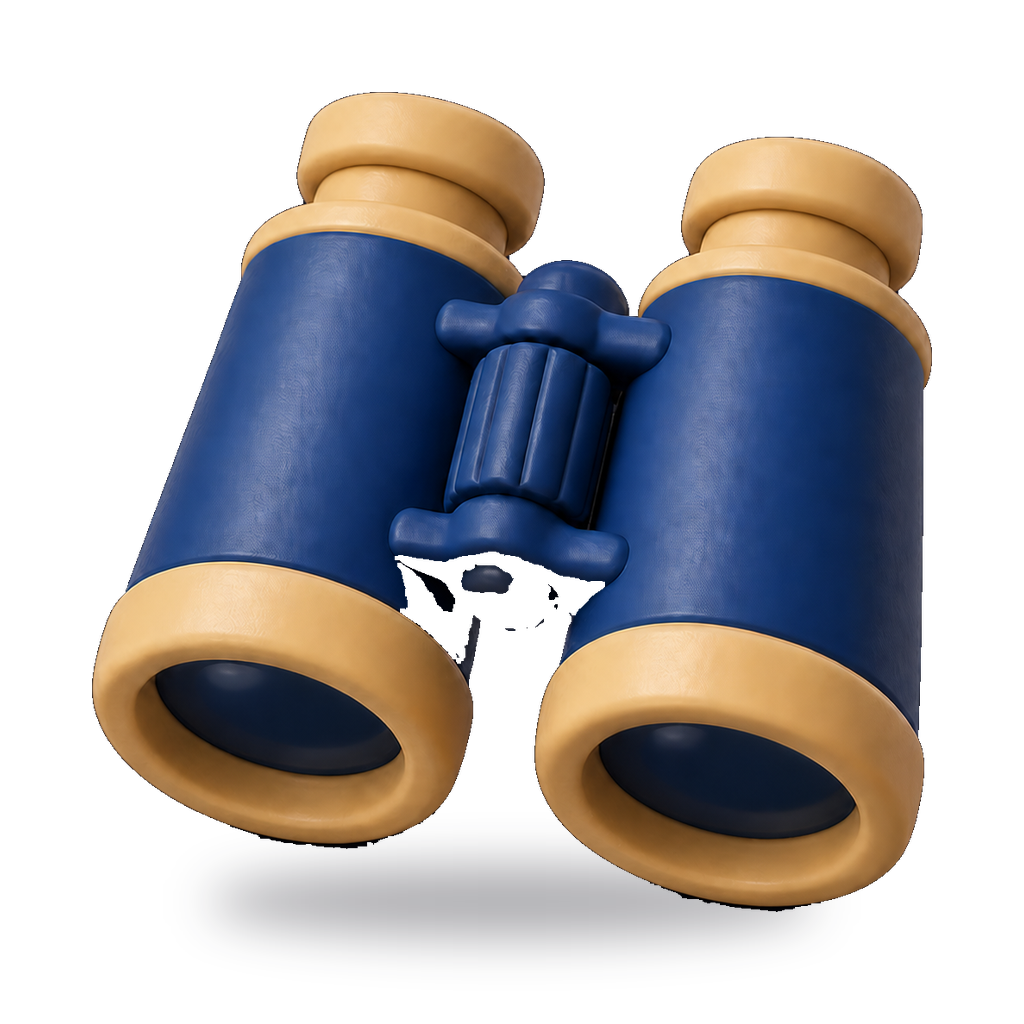
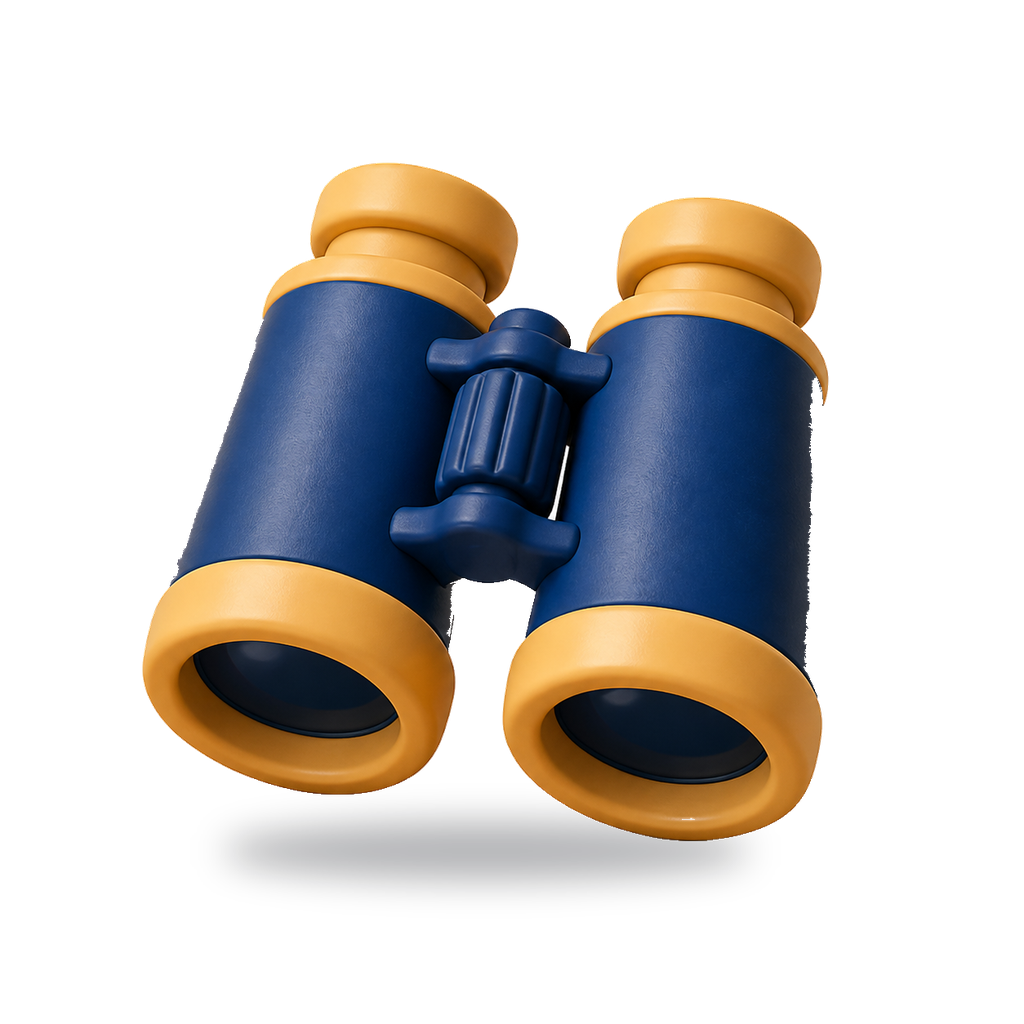
CozyGame-Siege zaehlten gar nicht, und drei Fehler mit einer Wurzel
Wolf mit Screenshot: „cozygames sitzt nicht bei runde 1 (auch nicht in rules
und pause, wenn aktiviert) und nicht alle grauen aus wenn vorbei."

Beim Nachgehen kamen DREI Fehler heraus, und der dritte ist der schwerste.
Alle haben dieselbe Wurzel: der Umbau auf die Werte-Tabelle am 25.08. hat den
Weg ueber `qqCozyGameSelectWinner` ersetzt, und an dieser Funktion hingen zwei
Dinge, die niemand mitgenommen hat.

1. DER SIEG ZAEHLTE NICHT. Die Punktvergabe stand in `qqCozyGameSelectWinner`,
   also im Weg ueber Wolfs Handauswahl. Seit die Rangfolge den Sieger kuert,
   lief der Normalfall daran vorbei. Im Harness ein CozyGame komplett
   durchgespielt: Sieger stand fest, und in `cozyGameWins` hatte JEDES Team
   eine Null. Die Regel, die Wolf am selben Tag entschieden hat („1 Punkt pro
   Sieg, zaehlt am Ende"), waere am Abend nie eingetreten - und es waere
   niemandem aufgefallen, weil sich das Brett dadurch absichtlich nicht
   aendert. Punktvergabe steht jetzt in `qqCozyGameFinish`, der EINEN Stelle,
   an der ein CozyGame endet, egal wie der Sieger zustande kam.

2. DER KNOTEN GRAUTE NICHT AUS. Zwei Ursachen uebereinander. Erstens stand
   `cozyGamesPlayedAfterPhases` nie in `buildQQStateUpdate` - genau die Falle
   aus CLAUDE.md, das Feld kam am Beamer nie an. Zweitens wurde es aus
   demselben Grund wie oben gar nicht mehr geschrieben. Beides gefixt, der
   Vermerk steht jetzt neben der Punktvergabe.
[…]

diff --git a/tests/qqRooms.test.ts b/tests/qqRooms.test.ts
@@ -11,7 +11,7 @@
  */
 import { describe, it, expect } from 'vitest';
 import { qqDecodeFinalStep, qqFinalMaxStep, qqTowerAwardCount, qqTowerMaxBeat } from '../shared/qqFinalReveal';
-import { qqSortedTeamIds, qqGoBackSlide, qqBetSlotsCount, updateTerritories, qqCozyGameTurnAbgelaufen, qqCozyGameRanking, qqCozyGameNextSequenceTeam } from '../backend/src/quarterQuiz/qqRooms';
+import { qqSortedTeamIds, qqGoBackSlide, qqBetSlotsCount, updateTerritories, qqCozyGameTurnAbgelaufen, qqCozyGameRanking, qqCozyGameNextSequenceTeam, qqCozyGameFinish, qqCozyGameConfirmValues } from '../backend/src/quarterQuiz/qqRooms';
 import { buildEmptyGrid } from '../backend/src/quarterQuiz/qqBfs';
 
 // ── Test-Helpers ─────────────────────────────────────────────────────────────
@@ -445,5 +445,91 @@ describe('CozyGames Stoppuhr', () => {
     const room = makeCozyRaum({ values: { a: 12.4, b: 60 } });
     const rang = qqCozyGameRanking(room, 'timeToFinish');
     expect(rang[0].teamId).toBe('a');
+  });
+});
+
+// ── CozyGames: der Sieg muss ankommen ────────────────────────────────────────
+// 2026-08-25 (Wolf mit Screenshot: „nicht alle grauen aus wenn vorbei"). Beim
+// Nachgehen kamen drei Fehler heraus, die alle dieselbe Wurzel hatten: der
+// Umbau auf die Werte-Tabelle am selben Tag hat den Weg ueber
+// `qqCozyGameSelectWinner` ersetzt, und an dieser Funktion hingen zwei Dinge,
+// die niemand mitgenommen hat - der Vermerk „nach dieser Runde lief ein
+// CozyGame" und der PUNKT fuer den Sieger.
+//
+// Der Punkt ist der schwerere: die Regel, die Wolf am selben Tag entschieden
+// hat, waere am Abend nie eingetreten, und es waere niemandem aufgefallen,
+// weil sich das Brett dadurch absichtlich nicht aendert.
+
+function makeFertigesCozyGame(over: Record<string, any> = {}): any {
+  return makeRoom({
+    phase: 'COZY_GAME',
+    gamePhaseIndex: 1,
+    teams: { a: makeTeam('a'), b: makeTeam('b') },
+    teamCozyGameWins: {},
+    cozyGamesPlayedAfterPhases: [],
+    _cozyGameReturnPhase: 'PLACEMENT',
+    cozyGame: {
+      poolGameIds: [], playedGameIds: [], phase: 'WINNER_SELECT',
+      activeGameId: 'cg-karten-haus', wheelTargetSliceIndex: 0,
+      gameEndsAt: null, slotKind: 'roundPause', winnerTeamIds: ['a'],
+      values: { a: 12.4, b: 30 }, scoringType: 'timeToFinish',
+      ...over,
+    },
+  });
+}
+
+describe('CozyGames: Sieg zaehlt', () => {
+  it('der Sieger bekommt genau einen Punkt', () => {
+    const room = makeFertigesCozyGame();
+    qqCozyGameFinish(room);
+    expect(room.teamCozyGameWins.a).toBe(1);
+    expect(room.teamCozyGameWins.b ?? 0).toBe(0);
+  });
+
+  it('geteilter Sieg zaehlt fuer alle', () => {
+    const room = makeFertigesCozyGame({ winnerTeamIds: ['a', 'b'] });
+    qqCozyGameFinish(room);
+    expect(room.teamCozyGameWins.a).toBe(1);
+    expect(room.teamCozyGameWins.b).toBe(1);
+  });
+
+  it('die Runde wird als gespielt vermerkt, damit der Baum sie ausgraut', () => {
+    const room = makeFertigesCozyGame();
+    qqCozyGameFinish(room);
+    expect(room.cozyGamesPlayedAfterPhases).toContain(1);
+  });
+
+  it('zweimal beenden zaehlt nicht doppelt', () => {
+    const room = makeFertigesCozyGame();
+    qqCozyGameFinish(room);
+    qqCozyGameFinish(room); // cozyGame ist jetzt null -> no-op
+    expect(room.teamCozyGameWins.a).toBe(1);
+    expect(room.cozyGamesPlayedAfterPhases).toEqual([1]);
+  });
+
+  it('der Final-Slot vermerkt sich getrennt, nicht als Runden-Slot', () => {
+    const room = makeFertigesCozyGame({ slotKind: 'finalSlot' });
+    qqCozyGameFinish(room);
+    expect(room.cozyGameFinalSlotPlayed).toBe(true);
+    expect(room.cozyGamesPlayedAfterPhases).toEqual([]);
+  });
+
+  it('die Werte-Tabelle kuert den Sieger, ohne Handauswahl', () => {
+    // Der Weg, der den Fehler ausgeloest hat: Sieger kommt aus der Rangfolge.
+    const room = makeRoom({
+      phase: 'COZY_GAME', gamePhaseIndex: 1,
+      teams: { a: makeTeam('a'), b: makeTeam('b') },
+      teamCozyGameWins: {}, cozyGamesPlayedAfterPhases: [],
+      cozyGame: {
+        poolGameIds: [], playedGameIds: [], phase: 'VALUES',
+        activeGameId: 'cg-karten-haus', wheelTargetSliceIndex: 0,
+        gameEndsAt: null, slotKind: 'roundPause', winnerTeamIds: [],
+        values: { a: 12.4, b: 30 },
+      },
+    });
+    qqCozyGameConfirmValues(room, 'timeToFinish');
+    expect(room.cozyGame.winnerTeamIds).toEqual(['a']);
+    qqCozyGameFinish(room);
+    expect(room.teamCozyGameWins.a).toBe(1);
   });
 });

diff --git a/frontend/src/components/QQProgressTree.tsx b/frontend/src/components/QQProgressTree.tsx
@@ -212,17 +212,25 @@ export default function QQProgressTree({
     && (state as any).cozyGamesPool.length > 0;
   const showCozyGames = !isSingleRound && cozyGamesDa;
   // 2026-08-24 (Wolf: „cozygames haben falsches emoji und stehen weg von runde
-  // obwohl sie zu runde gehoeren"). Im ganzen Baum sitzt der CozyGame-Knoten
-  // VOR der naechsten Runde, mit vollem Phasen-Abstand auf beiden Seiten - er
-  // liest sich damit als eigener Block zwischen zwei Runden. In der
-  // Einzelrunde stimmt das nicht: dort ist nur EINE Runde zu sehen, und das
-  // CozyGame, das ihr folgt, gehoert zu ihr. Also haengt es HINTER die fuenf
-  // Kacheln, mit dem kleinen Gruppen-Abstand statt dem Phasen-Abstand.
-  // Nach der letzten Runde gibt es keins (dort geht es ins Finale).
+  // obwohl sie zu runde gehoeren"), 2026-08-25 nachgezogen (Wolf: „cozygames
+  // sitzt nicht bei runde 1, auch nicht in rules und pause").
+  //
+  // Der Fix vom 24.08. galt nur fuer die Einzelrunde. Im ganzen Baum stand der
+  // Knoten weiterhin mit vollem Phasen-Abstand auf BEIDEN Seiten und las sich
+  // dadurch als eigener Block zwischen zwei Runden - also als etwas, das zu
+  // keiner von beiden gehoert. Er gehoert aber zu der Runde, die gerade vorbei
+  // ist: er kommt NACH ihr und wird mit ihr zusammen ausgegraut.
+  //
+  // Deshalb gilt jetzt ueberall dieselbe Regel: kleiner Gruppen-Abstand nach
+  // links (zur Runde, zu der er gehoert), voller Phasen-Abstand nach rechts
+  // (zur naechsten Runde). Nach der letzten Runde gibt es keins, dort geht es
+  // ins Finale.
   const einzelCozyGame = isSingleRound && cozyGamesDa && (onlyPhase as number) < totalPhases;
-  // Abstand zwischen den Bloecken einer Reihe. In der Einzelrunde ist der
-  // einzige Block-Uebergang der zum CozyGame - und der soll nah sein.
-  const gruppenGap = isSingleRound ? Math.round(dotGap * 2) : phaseGap;
+  // Der Abstand, mit dem der CozyGame-Knoten an SEINER Runde haengt. Deutlich
+  // enger als der Phasen-Abstand, damit die Zugehoerigkeit sichtbar ist, aber
+  // weiter als der Abstand zwischen zwei Kacheln derselben Runde - er ist ja
+  // keine Kategorie.
+  const gruppenGap = Math.round(dotGap * 2);
   const DEFAULT_DOTS_PER_PHASE = 5;
 
   // ── Showcase-Sweep „Option B" (Wolf 2026-05-17): per-Dot SubSteps ────────
@@ -379,11 +387,11 @@ export default function QQProgressTree({
   const cozyGameCentersByPi = new Map<number, number>();
   let cursor = 0;
   phases.forEach((p, pIdx) => {
-    // CG-Knoten zwischen Runde N-1 und N (vor jedem Phase-Render außer dem ersten).
-    // pIdx > 0 = wir sind ab Phase 1 (2. Runde). Bei `pIdx === phases.length - 1`
-    // (= vor Final) kommt CG zuerst, dann Bidding, dann Final-Phase.
+    // 2026-08-25: der CozyGame-Knoten haengt an der Runde DAVOR (siehe
+    // `gruppenGap`), also wird er beim Rendern der Folgephase zuerst gesetzt -
+    // aber mit dem engen Abstand nach links und dem vollen nach rechts.
     if (showCozyGames && pIdx >= 1) {
-      cursor += phaseGap;
+      cursor += gruppenGap;
       cozyGameCentersByPi.set(pIdx, cursor + cozyGameDotSize / 2);
       cursor += cozyGameDotSize;
     }
@@ -421,6 +429,24 @@ export default function QQProgressTree({
       cursor += gruppenGap;
       cozyGameCentersByPi.set(onlyPhase as number, cursor + cozyGameDotSize / 2);
       cursor += cozyGameDotSize;
+      // 2026-08-25 (Wolf: „wenn nur rundenuebersicht sitzt der progress tree
+      // oben mit cozygames nicht mittig (6 items)").
+      //
+      // Gemessen im Runden-Intro, Stufe 1: die Reihe lief von x363 bis x1660,
+      // Mitte also 1012 - die Buehnenmitte liegt bei 880. Die Reihe stand 131px
+      // zu weit rechts.
+      //
+      // Der Grund liegt nicht am Baum, sondern an dem, was er nach aussen
+      // meldet. Die Kamera in CozyQuizPhaseIntroView zentriert auf
+      // `phaseCenters[pi]` und zoomt nach `phaseWidths[pi]`, und beide waren
+      // schon geschrieben, BEVOR der CozyGame-Knoten drankam. Die Kamera hat
+      // also sauber auf fuenf Kacheln zentriert, und die sechste hing daneben.
+      //
+      // In der Einzelrunde gehoert der Knoten zum Cluster, also wird er
+      // nachtraeglich eingerechnet. Im ganzen Baum bleibt es wie es war: dort
+      // ist er ein Uebergang zwischen zwei Runden und gehoert in keinen Cluster.
+      phaseWidths[phaseWidths.length - 1] = cursor - phaseStart;
+      phaseCenters[phaseCenters.length - 1] = phaseStart + (cursor - phaseStart) / 2;
     }
   });
   // Finale-Knoten am Ende: 35% größeres Dot — Trenner-Linie 2026-04-28

diff --git a/backend/src/quarterQuiz/qqRooms.ts b/backend/src/quarterQuiz/qqRooms.ts
@@ -4725,6 +4725,10 @@ export function buildQQStateUpdate(room: QQRoomState): QQStateUpdate {
     connectionsEnabled:   room.connectionsEnabled ?? false,
     cozyGamesEnabled:     room.cozyGamesEnabled ?? false,
     cozyGamesPool:        room.cozyGamesPool ?? [],
+    // 2026-08-25: fehlte hier seit Mai. Ohne diese Zeile bekommt der
+    // Fortschrittsbaum immer eine leere Liste und graut keinen gespielten
+    // CozyGame-Knoten aus. Begruendung am Feld in shared/quarterQuizTypes.ts.
+    cozyGamesPlayedAfterPhases: [...(room.cozyGamesPlayedAfterPhases ?? [])],
     cozyGame:             room.cozyGame ?? null,
     cozyGameWins:         { ...(room.teamCozyGameWins ?? {}) },
     comebackEnabled:      room.comebackEnabled !== false,
@@ -7132,13 +7136,9 @@ export function qqCozyGameSelectWinner(
     }
   }
   room.cozyGame.winnerTeamIds = validIds.slice();
-  // 2026-08-25 (Wolf: „punkte am ende ohne award"): jeder Sieg ist ein Punkt
-  // im Endstand. Bei mehreren Siegern zaehlt er fuer alle - das Spiel kennt
-  // geteilte Siege, die Wertung muss das auch.
-  if (!room.teamCozyGameWins) room.teamCozyGameWins = {};
-  for (const id of validIds) {
-    room.teamCozyGameWins[id] = (room.teamCozyGameWins[id] ?? 0) + 1;
-  }
+  // 2026-08-25, zweiter Durchgang: die Punktvergabe stand hier und ist nach
+  // `qqCozyGameFinish` gewandert. Begruendung dort. Kurz: seit die Werte-
+  // Tabelle den Sieger kuert, laeuft der Normalfall an dieser Funktion vorbei.
 
   // Bei Final-Slot: frueher zaehlte der Sieger hier als Final-Kat-Win und
   // hob damit die Wett-Boni der Teams, die auf ihn getippt hatten.
@@ -7183,6 +7183,42 @@ export function qqCozyGameSelectWinner(
  */
 export function qqCozyGameFinish(room: QQRoomState): void {
   if (!room.cozyGame || room.cozyGame.phase !== 'WINNER_SELECT') return;
+  // 2026-08-25 (Wolf mit Screenshot: „nicht alle grauen aus wenn vorbei").
+  //
+  // Zweiter Teil desselben Fehlers, und diesmal war es meiner. Der Vermerk
+  // „nach dieser Runde lief ein CozyGame" stand bis eben NUR in
+  // `qqCozyGameSelectWinner`. Seit dem Umbau auf die Werte-Tabelle am selben
+  // Tag kommt der Sieger aber aus der Rangfolge, nicht mehr aus Wolfs
+  // Handauswahl - `qqCozyGameConfirmValues` setzt `winnerTeamIds` direkt und
+  // laeuft an dieser Funktion vorbei. Gemessen im Harness: nach einem komplett
+  // durchgespielten CozyGame stand die Liste immer noch leer.
+  //
+  // Deshalb steht der Vermerk jetzt hier: das ist die EINE Stelle, an der ein
+  // CozyGame endet, egal auf welchem Weg der Sieger zustande kam.
+  if (room.cozyGame.slotKind === 'finalSlot') {
+    room.cozyGameFinalSlotPlayed = true;
+  } else {
+    if (!Array.isArray(room.cozyGamesPlayedAfterPhases)) room.cozyGamesPlayedAfterPhases = [];
+    if (!room.cozyGamesPlayedAfterPhases.includes(room.gamePhaseIndex)) {
+      room.cozyGamesPlayedAfterPhases.push(room.gamePhaseIndex);
+    }
+  }
+  // Und der Punkt selbst, aus demselben Grund an derselben Stelle.
+  //
+  // Das war der schwerste der drei Funde vom 25.08. und wieder mein eigener:
+  // die Punktvergabe stand in `qqCozyGameSelectWinner`, also im Weg ueber
+  // Wolfs Handauswahl. Seit dem Umbau auf die Werte-Tabelle am selben Tag
+  // kuert die Rangfolge den Sieger, und dieser Weg lief daran vorbei. Gemessen
+  // im Harness: CozyGame komplett durchgespielt, Sieger stand fest, und in
+  // `cozyGameWins` hatte JEDES Team eine Null. Die Regel, die Wolf am selben
+  // Tag entschieden hat („1 Punkt pro Sieg, zaehlt am Ende"), waere am Abend
+  // also nie eingetreten - und es waere niemandem aufgefallen, weil sich das
+  // Brett dadurch absichtlich nicht aendert.
+  if (!room.teamCozyGameWins) room.teamCozyGameWins = {};
+  for (const id of room.cozyGame.winnerTeamIds) {
+    if (!room.teams[id]) continue;
+    room.teamCozyGameWins[id] = (room.teamCozyGameWins[id] ?? 0) + 1;
+  }
   const zurueck = (room as any)._cozyGameReturnPhase as QQPhase | undefined;
   room.cozyGame = null;
   (room as any)._cozyGameReturnPhase = null;

diff --git a/shared/quarterQuizTypes.ts b/shared/quarterQuizTypes.ts
@@ -1558,6 +1558,18 @@ export interface QQStateUpdate {
   cozyGamesEnabled?: boolean;
   /** Aktive CozyGame-IDs (Builder-Auswahl, max 8). */
   cozyGamesPool?: string[];
+  /**
+   * Nach welchen Runden schon ein CozyGame gelaufen ist (Phasen-Index).
+   *
+   * 2026-08-25 (Wolf mit Screenshot: „nicht alle grauen aus wenn vorbei"). Das
+   * Feld liegt seit Mai auf dem Raum und wurde nie in `buildQQStateUpdate`
+   * eingetragen - genau die Falle, die in CLAUDE.md steht. Der Fortschritts-
+   * baum fragt danach, um einen gespielten CozyGame-Knoten auszugrauen, bekam
+   * am Beamer aber immer eine leere Liste und hat den Knoten deshalb NIE
+   * ausgegraut. Auf der Wand stand also ein bunter Knoten mitten zwischen
+   * grauen, erledigten Kacheln.
+   */
+  cozyGamesPlayedAfterPhases?: number[];
   /** Setup-Toggle: aktiviert Comeback-Mechanik (H/L vor Final). Default true. */
   comebackEnabled?: boolean;
   /** Setup-Toggle: Groß-Gruppen-Modus (bis 25 Teams). Bar-Race-Score statt Grid,

diff --git a/frontend/src/cozyquizAvatars.ts b/frontend/src/cozyquizAvatars.ts
@@ -165,8 +165,8 @@ export const COZYQUIZ_FILL: Record<string, number> = {
   'armchair': 0.86,
   'autumn-leaf': 0.92,
   'backpack': 0.88,
-  'binoculars': 0.83,
-  'book': 0.92,
+  'binoculars': 0.84,
+  'book': 0.91,
   'camera': 0.80,
   'candle': 0.92,
   'cassette': 0.78,
@@ -211,7 +211,7 @@ export const COZYQUIZ_FILL: Record<string, number> = {
 };
 
 export const COZYQUIZ_NUDGE: Record<string, [number, number]> = {
-  'binoculars': [-2.2, 0.1],
+  'binoculars': [-2.0, 0.6],
   'candle': [0.1, -2.5],
   'controller': [-0.6, 2.2],
   'croissant': [2.5, 3.0],
@@ -222,5 +222,5 @@ export const COZYQUIZ_NUDGE: Record<string, [number, number]> = {
   'potion': [-0.1, -2.0],
   'rocket': [-2.1, -0.5],
   'tent': [-0.5, -5.3],
-  'wizard-hat': [-0.7, -3.8],
+  'wizard-hat': [-0.9, -3.2],
 };
